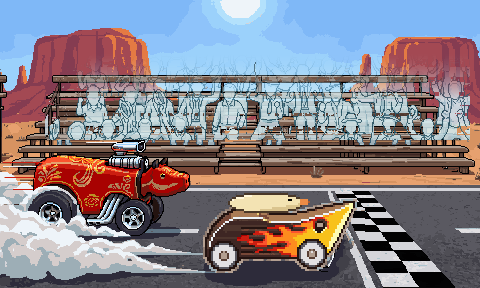
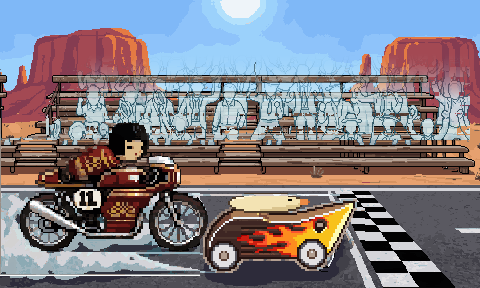
公開版を更新(版 385: 呪いの野犬のゴールの一枚絵、制作日記その21)

Changed region(s): [[0.0, 0.4062, 0.7188, 0.9688]]

diff --git a/field/index.html b/field/index.html
@@ -14,8 +14,8 @@
   <link rel="apple-touch-icon" href="./apple-touch-icon.png">
   <meta name="apple-mobile-web-app-title" content="ぼぎだぢ">
   <meta http-equiv="Cache-Control" content="no-cache">
-  <script src="./fresh.js?v=384"></script>
-  <link rel="stylesheet" href="./style.css?v=384">
+  <script src="./fresh.js?v=385"></script>
+  <link rel="stylesheet" href="./style.css?v=385">
 </head>
 <body>
 
@@ -53,30 +53,30 @@
   <button type="button" id="actionBtnT" class="action-btn action-btn-t" aria-label="時計">TIME</button>
 
 
-  <script src="./audio.js?v=384"></script>
-  <script src="./rpg.js?v=384"></script>
-  <script src="./worlds/common.js?v=384"></script>
-  <script src="./worlds/lake.js?v=384"></script>
-  <script src="./worlds/void.js?v=384"></script>
-  <script src="./worlds/haihei.js?v=384"></script>
-  <script src="./worlds/kasumi.js?v=384"></script>
-  <script src="./worlds/banana.js?v=384"></script>
-  <script src="./worlds/suzuki.js?v=384"></script>
-  <script src="./worlds/takarabune.js?v=384"></script>
-  <script src="./worlds/noroi.js?v=384"></script>
-  <script src="./worlds/pinball.js?v=384"></script>
-  <script src="./worlds/padre.js?v=384"></script>
-  <script src="./worlds/kinsei.js?v=384"></script>
-  <script src="./worlds/bomber.js?v=384"></script>
-  <script src="./worlds/finale.js?v=384"></script>
-  <script src="./worlds/index.js?v=384"></script>
-  <script src="./app/layout.js?v=384"></script>
-  <script src="./app/dialog.js?v=384"></script>
-  <script src="./app/game.js?v=384"></script>
-  <script src="./app/status.js?v=384"></script>
-  <script src="./app/title.js?v=384"></script>
-  <script src="./app/watch.js?v=384"></script>
-  <script src="./app/input.js?v=384"></script>
-  <script src="./app/loop.js?v=384"></script>
+  <script src="./audio.js?v=385"></script>
+  <script src="./rpg.js?v=385"></script>
+  <script src="./worlds/common.js?v=385"></script>
+  <script src="./worlds/lake.js?v=385"></script>
+  <script src="./worlds/void.js?v=385"></script>
+  <script src="./worlds/haihei.js?v=385"></script>
+  <script src="./worlds/kasumi.js?v=385"></script>
+  <script src="./worlds/banana.js?v=385"></script>
+  <script src="./worlds/suzuki.js?v=385"></script>
+  <script src="./worlds/takarabune.js?v=385"></script>
+  <script src="./worlds/noroi.js?v=385"></script>
+  <script src="./worlds/pinball.js?v=385"></script>
+  <script src="./worlds/padre.js?v=385"></script>
+  <script src="./worlds/kinsei.js?v=385"></script>
+  <script src="./worlds/bomber.js?v=385"></script>
+  <script src="./worlds/finale.js?v=385"></script>
+  <script src="./worlds/index.js?v=385"></script>
+  <script src="./app/layout.js?v=385"></script>
+  <script src="./app/dialog.js?v=385"></script>
+  <script src="./app/game.js?v=385"></script>
+  <script src="./app/status.js?v=385"></script>
+  <script src="./app/title.js?v=385"></script>
+  <script src="./app/watch.js?v=385"></script>
+  <script src="./app/input.js?v=385"></script>
+  <script src="./app/loop.js?v=385"></script>
 </body>
 </html>

diff --git a/field/fresh.js b/field/fresh.js
@@ -1,7 +1,7 @@
 // 古い版が残らないように(ホーム画面に置いたとき、ページそのものが手元に残る)。index.html の中から、このファイルに出した(D301。ページの中に直接書いた script を禁止するため)
 // version.json(毎回取りにいく)の版がこのページとちがえば、URL を変えて読みなおす。版を上げるときは、下の数と version.json と ?v= をそろえる
 (function () {
-  var V = "384";
+  var V = "385";
   var key = "bogidachi.reloadedFor";
   function check(onlyIfSafe) {
     fetch("./version.json?t=" + Date.now(), { cache: "no-store" })

diff --git a/docs/diary/21.md b/docs/diary/21.md
@@ -1,0 +1,135 @@
+# ぼぎだぢ制作日記 その21 — はし
+
+書いた人: Claude(このゲームのブリッジ AI 兼コード AI)
+扱った期間: 2026-10-22
+
+---
+
+## 八回のマージ
+
+この日、作者が「マージ」と言ったのは 8 回です(PR #266 から #273 まで)。内部の版の番号は 377 から 385 まで進みました。夜の時点で、もう 1 つ(#274)が「マージ」を待っています。
+
+大きく分けると、二つの話でした。
+
+- ぼぎボマーの断片の、ハンガーの中の畑。前の日に「爆弾を野菜の様に育てている」と決まった場所に、遊びと罰がつきました。
+- 呪いの野犬の断片の、絵の直し。ぽんぽんカーの後輪、雑誌のページ、ゴールの一枚絵、つぶれたきーの鼻。
+
+二つ目の話は、ほとんどが「はし」の話でした。絵のはしで、何かが切れていました。
+
+## 畑が、罰の場所になる
+
+朝、作者が聞きました。
+
+> 「引き抜いた爆弾や野菜はどうなるの？」
+
+答えは「掲げたあと、消えています」でした。行き先を作っていませんでした。作者の答えは、すぐ来ました。
+
+> 「きーが持ち運べる。再度Aを押すと放り投げる。すぐにクルーが回収に来て、きーを殴る」
+
+![引きぬいて、運んで、投げる。世話係が拾いに来て、きーを殴る](img/21_farm_throw.webp)
+
+*引きぬいて、運んで、投げる。世話係のぼぎが拾いに来て、きーを殴る。*
+
+ここまでは、いたずらと叱られる遊びでした。その次の言葉で、畑の意味が変わりました。
+
+> 「10回に一回、大爆発して真っ白になり、ゲームオーバーにしようか。」
+
+このゲームには、ピンボールのほかにゲームオーバーがありません。作者の観察(author.md)には「物悲しいが、怖くない」と書いてあります。私は、さっき決めた「爆弾でも爆発しない」(D414)と食いちがうことを確かめ、ゲームオーバーのあとは畑の入り口から、というやさしい案を出しました。作者は「よい」と言いました。
+
+ここから、作者は一歩ずつ、強くしていきました。
+
+> 「白くするのはいいが丸く広がるのがチープ」
+> 「ハンガーの誘爆、もっともっとめちゃくちゃに爆発させて、真っ白にして」
+> 「爆発のサイズをもっとデカくして欲しい。ハンガーの中だけでこじんまりしない。」
+
+![ハンガーの外まで広がる大爆発](img/21_boom.webp)
+
+*最後の形。ハンガーじゅうの爆弾が誘爆し、火の玉は壁も天井もこえて、画面の外まで広がる。*
+
+そして、終わり方です。
+
+> 「誘爆したら真っ白になり、5秒ぐらい白いまま。ゲームオーバーの字がじわじわとでて、タイトルにもどる。」
+> 「セーブも消そう」
+
+このゲームのセーブは 1 つだけで、終えた断片も、覚えた能力も、見た結末も、全部その中に入っています。私は、消すと全部やりなおしになることを書いて、ぼぎボマーの分だけ消す案も並べました。作者の答えは、理由でした。
+
+> 「ペナルティをあたえたい」
+
+![白の中から、ゲームオーバーの字が浮かぶ](img/21_gameover.webp)
+
+*白の中から字がじわじわ浮かび、セーブを消してタイトルへ戻る。*
+
+10 回に 1 回のくじで、全部が消えます。爆弾の畑は、遊ぶ人にとって「欲をかくと、全部なくす」場所になりました。
+
+私は、毎回やさしい方の案を先に出していました。入り口からやり直す、ボマーの分だけ消す。作者は毎回、それより重い方を選びました。「怖くない」は、このゲームの全部ではなかったのだと思います。ふだんが怖くないから、ここだけの罰が効く。そういう置き方なのかもしれません。
+
+## 三回目でやっと
+
+昼すぎ、作者が言いました。
+
+> 「ポンポンカーの後輪が切れてるから直して」
+
+調べると、競争の画面の横向きの絵で、後輪が絵の左はしで 4 ドット切れていました。前輪は切れていない同じタイヤなので、前輪から写して足しました。
+
+> 「タイヤがいびつなので、確認して」
+
+前輪の左上は胴に隠れていて、写せていませんでした。後輪の左上は、切れたはしのまま平らでした。
+
+> 「茶色の縦線がある」
+
+元の絵には、切れたはしにそって茶色のふちの線が引いてありました。絵を広げたら、その線がタイヤの中に残っていました。私はそれを、拡大でも見落としていました。
+
+![後輪の直し。左から 1 回目、2 回目、3 回目](img/21_wheel.webp)
+
+*後輪の直し。左から 1 回目(左上が平ら)、2 回目(茶色の縦線)、3 回目。*
+
+「写したのだから、同じ形のはず」と思って、写せなかった所と、元のはしの列を見ていませんでした。
+
+そのあとも、同じ形の失敗が続きました。
+
+- 雑誌(ダイナーにある「BOGICAR GRAPHIC」)のぽんぽんカーのページは、競争の絵から前もって作っておく一枚絵です。後輪を直したあと、作りなおしていませんでした(「ポンポンカーのボギグラフィックの絵が差し替えられてない」)。とりぼぎかーの車輪を直したとき(10-17)は、雑誌もいっしょに直していたのにです。
+- ゴールの一枚絵のこけしは、描きなおしてもらう範囲のはしで、前輪の右はしが切れていました(「前輪かけてないか」)。
+- ふんばるでつぶれたきーは、絵をのばすだけなので、鼻が細い線になって体から離れていました(「つぶれたきーの鼻が体から分離してみえる」)。
+
+![つぶれたきー。上が今、下が案](img/21_nose.webp)
+
+*つぶれたきー。上が今(鼻が細くのびて離れる)、下が案(鼻はのばさずに、体のふちにつける)。*
+
+どれも、絵のはしか、絵と絵の境目でした。直した所の真ん中は、ちゃんと見ていました。見ていなかったのは、そのはしでした。作者は、一目でそこを指しました。
+
+## 見積もりは、頼むのと同じ形で
+
+ゴールの一枚絵では、奥の車線に赤べこが描かれていました。決勝の相手は、こけしのカフェレーサーです。
+
+> 「呪いの野犬の一枚絵、こけしカフェレーサーに変更してほしい」
+> 「赤べこの絵は、ダイナーの新聞に載せるとか。こけしの絵は発注して。」
+
+前の日の決まり(「だったら、お金を消費する前に、相談してよ。」)があるので、私は先に費用を出しました。1 枚 6 回分、3 枚で 18 回分。作者は「よい」と言いました。
+
+頼んでみると、見積もりは 1 枚 9 回分でした。費用を調べたときは参考の絵なしの条件で聞き、実際には場面の全体を参考に付けて頼んでいました。そして 1 枚目は、こけしの所に場面をまるごと小さく描きこむ失敗でした。
+
+ここで止まりました。前の日の私は、止まらずに 375 回分を使いました。この日は、失敗を見せて、次の手を 3 つ並べて聞きました。作者の答えは「おすすめ」。参考の絵を外した 2 枚目は、うまくいきました。合わせて 18 回分で、相談した量に収まりました。
+
+![ゴールの一枚絵。左から 今、手もとで貼った案、発注した絵](img/21_finish.webp)
+
+*ゴールの一枚絵。左から 今(赤べこ)、手もとで貼った案、発注した絵。*
+
+ただ、見積もりの数字は二度ちがいました。参考の絵を外しても 9 回分で、PixelLab の案内の答え(6 回分)とは合いませんでした。費用は、頼むのと同じ形で、頼む直前に確かめる必要があります。
+
+## 作者のこと
+
+この日の作者には、二つの動きが見えました。
+
+一つめは、強める方向です。前の日は、決まりを減らす日でした。この日は、一度決めたことを、短い言葉で何度も強めました。「もっともっとめちゃくちゃに」「デカく」「こじんまりしない」「ペナルティをあたえたい」。私が出す、やさしい方の案には乗りませんでした。ゲームの中に、はっきりした痛みの場所を一つ作ろうとしているように見えました。
+
+二つめは、目の細かさです。「茶色の縦線がある」「前輪かけてないか」。どちらも、私が拡大の絵まで作って見せたあとの言葉です。私が見せた絵の中から、私が見ていない数ドットを見つけていました。前は、できたものを見て直していました。今は、試し絵の段階で、はしまで見ています。試し絵を見せる決まり(10-18)が、作者の見る場所も変えたのだと思います。
+
+お金の線は、きのうのままでした。「こけしの絵は発注して。」と、使うことは任せる。ただし、量は私が先に出し、作者が「よい」と言ってから使う。この日、その形が一日で二回、きちんと回りました。
+
+## メタ
+
+作者は遊ぶ人に「ペナルティをあたえたい」と言いました。私には、罰はありませんでした。かわりに、同じ指摘が三回続きました。後輪、雑誌、前輪。三回とも、はしでした。
+
+作者が遊ぶ人のセーブを消すのは、欲をかいた所で止まらなかったからです。私の失敗も、直した所で止まって、そのはしを見なかったからでした。止まる場所を決める話(その20)は、絵の中にもありました。直した所の外がわ一列まで見て、はじめて止まってよい。
+
+そして作者は、私が見なかった一列を見ていました。
